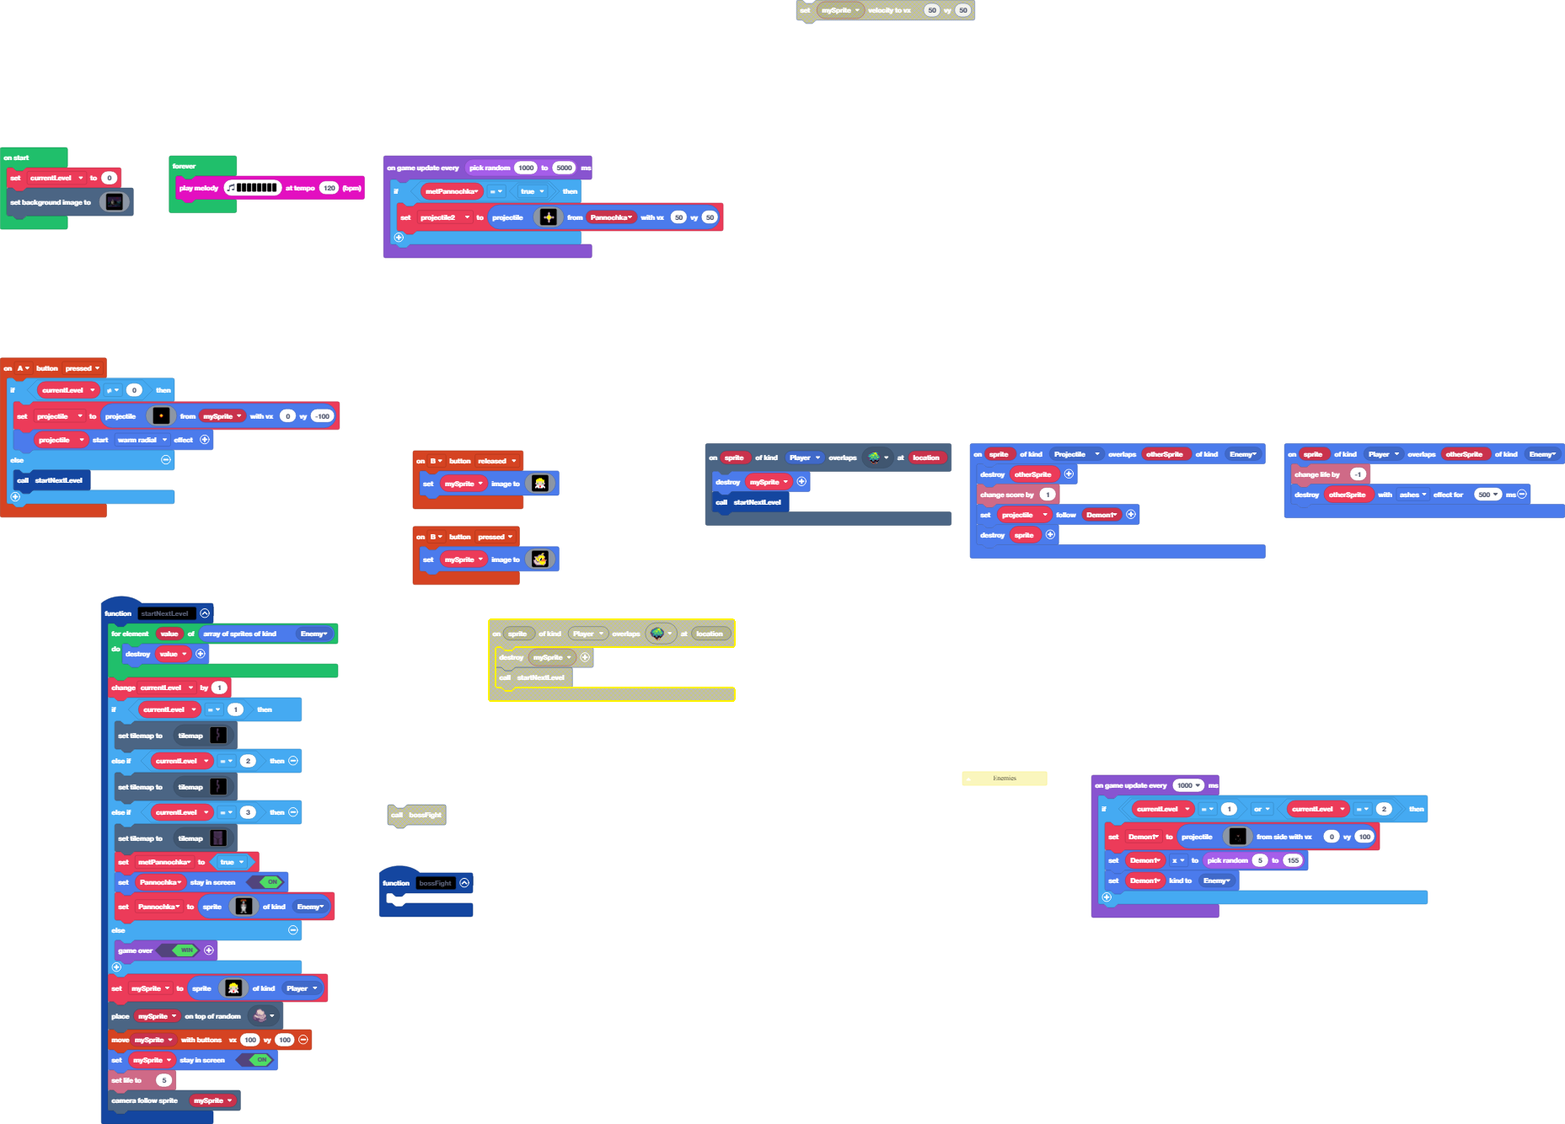
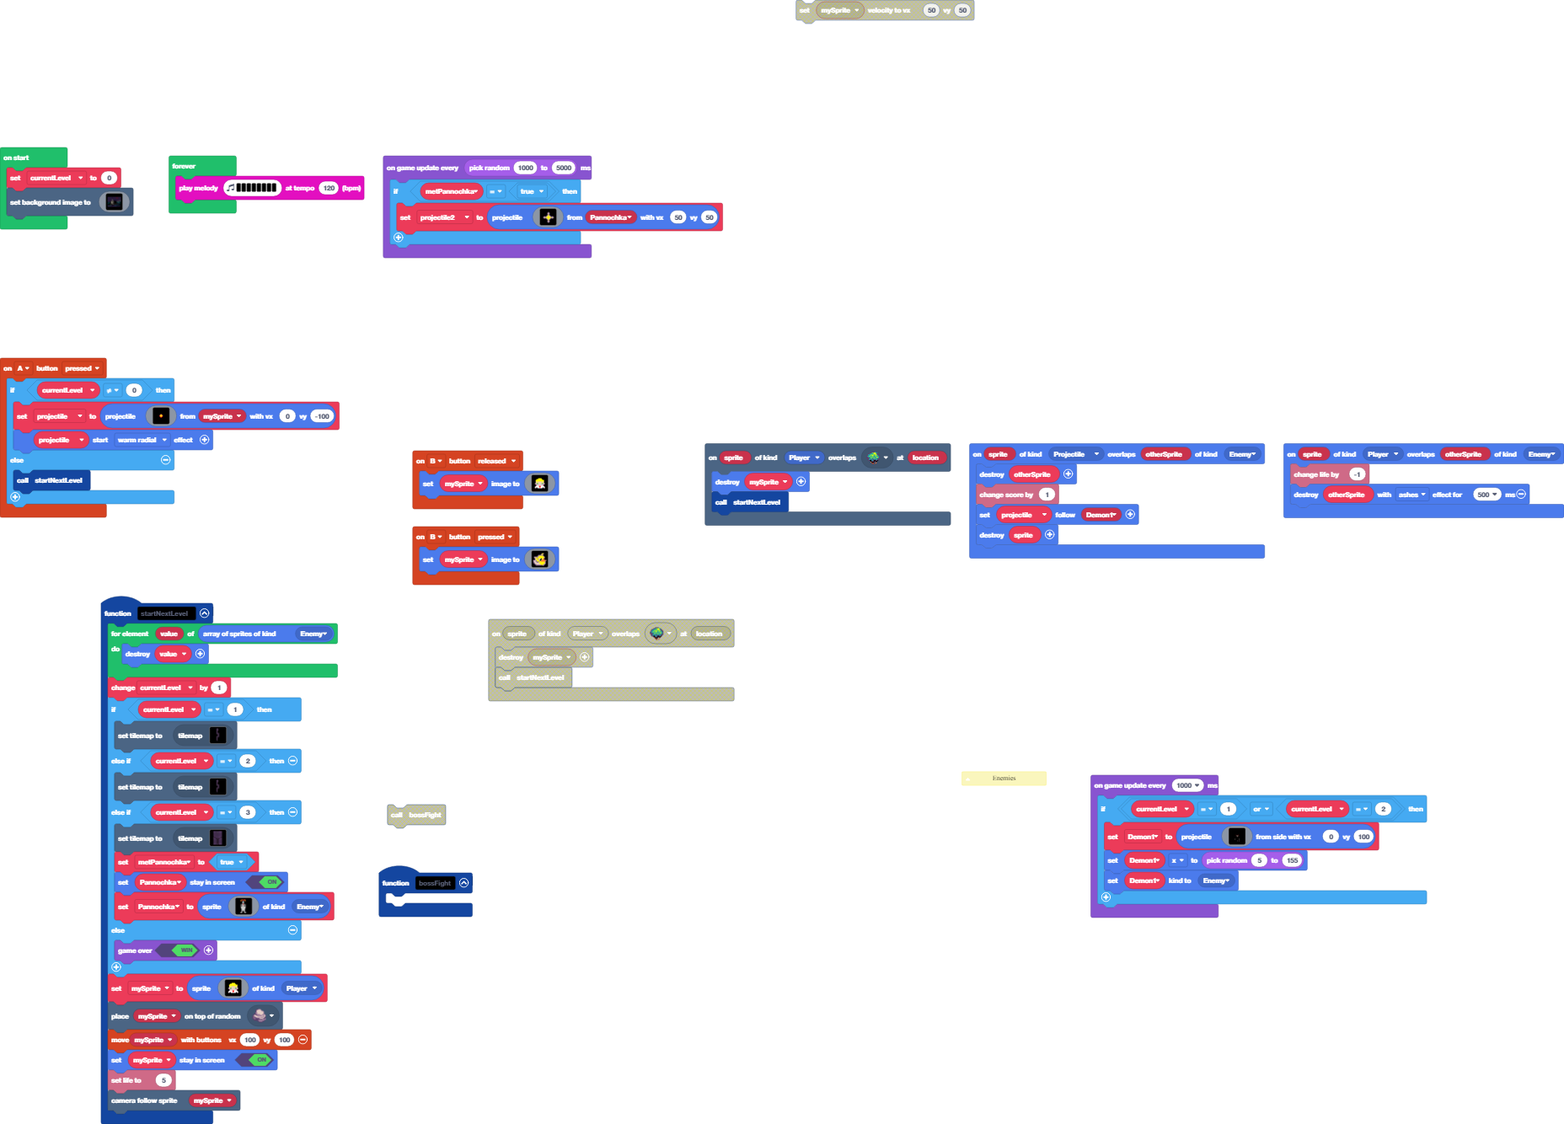
Зробила тоннель

Changed region(s): [[0.1562, 0.1537, 0.2188, 0.1844], [0.3125, 0.584, 0.3438, 0.6147]]

diff --git a/images.g.ts b/images.g.ts
@@ -22,6 +22,129 @@ namespace myImages {
 . . . . . f f f f f f . . . . . 
 . . . . . f f . . f f . . . . . 
 `;
+            case "image2":
+            case "ифдм":return img`
+ffffffffffffffffffffffffffffffffffffffffffffffffffffffffffffffffffffffffffffffffffffffffffffffffffffffffffffffffffffffffffffffffffffffffffffffffffffffffffffffff
+ffffffffffffffffffffffffffffffffffffffffffffffffffffffffffffffffffffffffffffffffffffffffffffffffffffffffffffffffffffffffffffffffffffffffffffffffffffffffffffffff
+ffffffffffffffffffffffffffffffffffffffffffffffffffffffffffffffffffffffffffffffffffffffffffffffffffffffffffffffffffffffffffffffffffffffffffffffffffffffffffffffff
+ffffffffffffffffffffffffffffffffffffffffffffffffffffffffffffffffffffffffffffffffffffffffffffffffffffffffffffffffffffffffffffffffffffffffffffffffffffffffffffffff
+ffffffffffffffffffffffffffffffffffffffffffffffffffffffffffffffffffffffffffffffffffffffffffffffffffffffffffffffffffffffffffffffffffffffffffffffffffffffffffffffff
+ffffffffffffffffffffffffffffffffffffffffffffffffffffffffffffffffffffffffffffffffffffffffffffffffffffffffffffffffffffffffffffffffffffffffffffffffffffffffffffffff
+ffffffffffffffffffffffffffffffffffffffffffffffffffffffffffffffffffffffffffffffffffffffffffffffffffffffffffffffffffffffffffffffffffffffffffffffffffffffffffffffff
+ffffffffffffffffffffffffffffffffffffffffffffffffffffffffffffffffffffffffffffffffffffffffffffffffffffffffffffffffffffffffffffffffffffffffffffffffffffffffffffffff
+ffffffffffffffffffffffffffffffffffffffffffffffffffffffffffffffffffffffffffffffffffffffffffffffffffffffffffffffffffffffffffffffffffffffffffffffffffffffffffffffff
+ffffffffffffffffffffffffffffffffffffffffffffffffffffffffffffffffffffffffffffffffffffffffffffffffffffffffffffffffffffffffffffffffffffffffffffffffffffffffffffffff
+ffffffffffffffffffffffffffffffffffffffffffffffffffffffffffffffffffffffffffffffffffffffffffffffffffffffffffffffffffffffffffffffffffffffffffffffffffffffffffffffff
+ffffffffffffffffffffffffffffffffffffffffffffffffffffffffffffffffffffffffffffffffffffffffffffffffffffffffffffffffffffffffffffffffffffffffffffffffffffffffffffffff
+ffffffffffffffffffffffffffffffffffffffffffffffffffffffffffffffffffffffffffffffffffffffffffffffffffffffffffffffffffffffffffffffffffffffffffffffffffffffffffffffff
+ffffffffffffffffffffffffffffffffffffffffffffffffffffffffffffffffffffffffffffffffffffffffffffffffffffffffffffffffffffffffffffffffffffffffffffffffffffffffffffffff
+ffffffffffffffffffffffffffffffffffffffffffffffffffffffffffffffffffffffffffffffffffffffffffffffffffffffffffffffffffffffffffffffffffffffffffffffffffffffffffffffff
+ffffffffffffffffffffffffffffffffffffffffffffffffffffffffffffffffffffffffffffffffffffffffffffffffffffffffffffffffffffffffffffffffffffffffffffffffffffffffffffffff
+ffffffffffffffffffffffffffffffffffffffffffffffffffffffffffffffffffffffffffffffffffffffffffffffffffffffffffffffffffffffffffffffffffffffffffffffffffffffffffffffff
+ffffffffffffffffffffffffffffffffffffffffffffffffffffffffffffffffffffffffffffffffffffffffffffffffffffffffffffffffffffffffffffffffffffffffffffffffffffffffffffffff
+ffffffffffffffffffffffffffffffffffffffffffffffffffffffffffffffffffffffffffffffffffffffffffffffffffffffffffffffffffffffffffffffffffffffffffffffffffffffffffffffff
+ffffffffffffffffffffffffffffffffffffffffffffffffffffffffffffffffffffffffffffffffffffffffffffffffffffffffffffffffffffffffffffffffffffffffffffffffffffffffffffffff
+ffffffffffffffffffffffffffffffffffffffffffffffffffffffffffffffffffffffffffffffffffffffffffffffffffffffffffffffffffffffffffffffffffffffffffffffffffffffffffffffff
+ffffffffffffffffffffffffffffffffffffffffffffffffffffffffffffffffffffffffffffffffffffffffffffffffffffffffffffffffffffffffffffffffffffffffffffffffffffffffffffffff
+ffffffffffffffffffffffffffffffffffffffffffffffffffffffffffffffffffffffffffffffffffffffffffffffffffffffffffffffffffffffffffffffffffffffffffffffffffffffffffffffff
+ffffffffffffffffffffffffffffffffffffffffffffffffffffffffffffffffffffffffffffffffffffffffffffffffffffffffffffffffffffffffffffffffffffffffffffffffffffffffffffffff
+ffffffffffffffffffffffffffffffffffffffffffffffffffffffffffffffffffffffffffffffffffffffffffffffffffffffffffffffffffffffffffffffffffffffffffffffffffffffffffffffff
+ffffffffffffffffffffffffffffffffffffffffffffffffffffffffffffffffffffffffffffffffffffffffffffffffffffffffffffffffffffffffffffffffffffffffffffffffffffffffffffffff
+ffffffffffffffffffffffffffffffffffffffffffffffffffffffffffffffffffffffffffffffffffffffffffffffffffffffffffffffffffffffffffffffffffffffffffffffffffffffffffffffff
+ffffffffffffffffffffffffffffffffffffffffffffffffffffffffffffffffffffffffffffffffffffffffffffffffffffffffffffffffffffffffffffffffffffffffffffffffffffffffffffffff
+ffffffffffffffffffffffffffffffffffffffffffffffffffffffffffffffffffffffffffffffffffffffffffffffffffffffffffffffffffffffffffffffffffffffffffffffffffffffffffffffff
+ffffffffffffffffffffffffffffffffffffffffffffffffffffffffffffffffffffffffffffffffffffffffffffffffffffffffffffffffffffffffffffffffffffffffffffffffffffffffffffffff
+ffffffffffffffffffffffffffffffffffffffffffffffffffffffffffffffffffffffffffffffffffffffffffffffffffffffffffffffffffffffffffffffffffffffffffffffffffffffffffffffff
+ffffffffffffffffffffffffffffffffffffffffffffffffffffffffffffffffffffffffffffffffffffffffffffffffffffffffffffffffffffffffffffffffffffffffffffffffffffffffffffffff
+ffffffffffffffffffffffffffffffffffffffffffffffffffffffffffffffffffffffffffffffffffffffffffffffffffffffffffffffffffffffffffffffffffffffffffffffffffffffffffffffff
+ffffffffffffffffffffffffffffffffffffffffffffffffffffffffffffffffffffffffffffffffffffffffffffffffffffffffffffffffffffffffffffffffffffffffffffffffffffffffffffffff
+ffffffffffffffffffffffffffffffffffffffffffffffffffffffffffffffffffffffffffffffffffffffffffffffffffffffffffffffffffffffffffffffffffffffffffffffffffffffffffffffff
+ffffffffffffffffffffffffffffffffffffffffffffffffffffffffffffffffffffffffffffffffffffffffffffffffffffffffffffffffffffffffffffffffffffffffffffffffffffffffffffffff
+ffffffffffffffffffffffffffffffffffffffffffffffffffffffffffffffffffffffffffffffffffffffffffffffffffffffffffffffffffffffffffffffffffffffffffffffffffffffffffffffff
+ffffffffffffffffffffffffffffffffffffffffffffffffffffffffffffffffffffffffffffffffffffffffffffffffffffffffffffffffffffffffffffffffffffffffffffffffffffffffffffffff
+ffffffffffffffffffffffffffffffffffffffffffffffffffffffffffffffffffffffffffffffffffffffffffffffffffffffffffffffffffffffffffffffffffffffffffffffffffffffffffffffff
+ffffffffffffffffffffffffffffffffffffffffffffffffffffffffffffffffffffffffffffffffffffffffffffffffffffffffffffffffffffffffffffffffffffffffffffffffffffffffffffffff
+ffffffffffffffffffffffffffffffffffffffffffffffffffffffffffffffffffffffffffffffffffffffffffffffffffffffffffffffffffffffffffffffffffffffffffffffffffffffffffffffff
+ffffffffffffffffffffffffffffffffffffffffffffffffffffffffffffffffffffffffffffffffffffffffffffffffffffffffffffffffffffffffffffffffffffffffffffffffffffffffffffffff
+ffffffffffffffffffffffffffffffffffffffffffffffffffffffffffffffffffffffffffffffffffffffffffffffffffffffffffffffffffffffffffffffffffffffffffffffffffffffffffffffff
+ffffffffffffffffffffffffffffffffffffffffffffffffffffffffffffffffffffffffffffffffffffffffffffffffffffffffffffffffffffffffffffffffffffffffffffffffffffffffffffffff
+ffffffffffffffffffffffffffffffffffffffffffffffffffffffffffffffffffffffffffffffffffffffffffffffffffffffffffffffffffffffffffffffffffffffffffffffffffffffffffffffff
+ffffffffffffffffffffffffffffffffffffffffffffffffffffffffffffffffffffffffffffffffffffffffffffffffffffffffffffffffffffffffffffffffffffffffffffffffffffffffffffffff
+ffffffffffffffffffffffffffffffffffffffffffffffffffffffffffffffffffffffffffffffffffffffffffffffffffffffffffffffffffffffffffffffffffffffffffffffffffffffffffffffff
+ffffffffffffffffffffffffffffffffffffffffffffffffffffffffffffffffffffffffffffffffffffffffffffffffffffffffffffffffffffffffffffffffffffffffffffffffffffffffffffffff
+ffffffffffffffffffffffffffffffffffffffffffffffffffffffffffffffffffffffffffffffffffffffffffffffffffffffffffffffffffffffffffffffffffffffffffffffffffffffffffffffff
+ffffffffffffffffffffffffffffffffffffffffffffffffffffffffffffffffffffffffffffffffffffffffffffffffffffffffffffffffffffffffffffffffffffffffffffffffffffffffffffffff
+ffffffffffffffffffffffffffffffffffffffffffffffffffffffffffffffffffffffffffffffffffffffffffffffffffffffffffffffffffffffffffffffffffffffffffffffffffffffffffffffff
+ffffffffffffffffffffffffffffffffffffffffffffffffffffffffffffffffffffffffffffffffffffffffffffffffffffffffffffffffffffffffffffffffffffffffffffffffffffffffffffffff
+ffffffffffffffffffffffffffffffffffffffffffffffffffffffffffffffffffffffffffffffffffffffffffffffffffffffffffffffffffffffffffffffffffffffffffffffffffffffffffffffff
+ffffffffffffffffffffffffffffffffffffffffffffffffffffffffffffffffffffffffffffffffffffffffffffffffffffffffffffffffffffffffffffffffffffffffffffffffffffffffffffffff
+ffffffffffffffffffffffffffffffffffffffffffffffffffffffffffffffffffffffffffffffffffffffffffffffffffffffffffffffffffffffffffffffffffffffffffffffffffffffffffffffff
+ffffffffffffffffffffffffffffffffffffffffffffffffffffffffffffffffffffffffffffffffffffffffffffffffffffffffffffffffffffffffffffffffffffffffffffffffffffffffffffffff
+ffffffffffffffffffffffffffffffffffffffffffffffffffffffffffffffffffffffffffffffffffffffffffffffffffffffffffffffffffffffffffffffffffffffffffffffffffffffffffffffff
+ffffffffffffffffffffffffffffffffffffffffffffffffffffffffffffffffffffffffffffffffffffffffffffffffffffffffffffffffffffffffffffffffffffffffffffffffffffffffffffffff
+ffffffffffffffffffffffffffffffffffffffffffffffffffffffffffffffffffffffffffffffffffffffffffffffffffffffffffffffffffffffffffffffffffffffffffffffffffffffffffffffff
+ffffffffffffffffffffffffffffffffffffffffffffffffffffffffffffffffffffffffffffffffffffffffffffffffffffffffffffffffffffffffffffffffffffffffffffffffffffffffffffffff
+ffffffffffffffffffffffffffffffffffffffffffffffffffffffffffffffffffffffffffffffffffffffffffffffffffffffffffffffffffffffffffffffffffffffffffffffffffffffffffffffff
+ffffffffffffffffffffffffffffffffffffffffffffffffffffffffffffffffffffffffffffffffffffffffffffffffffffffffffffffffffffffffffffffffffffffffffffffffffffffffffffffff
+ffffffffffffffffffffffffffffffffffffffffffffffffffffffffffffffffffffffffffffffffffffffffffffffffffffffffffffffffffffffffffffffffffffffffffffffffffffffffffffffff
+ffffffffffffffffffffffffffffffffffffffffffffffffffffffffffffffffffffffffffffffffffffffffffffffffffffffffffffffffffffffffffffffffffffffffffffffffffffffffffffffff
+ffffffffffffffffffffffffffffffffffffffffffffffffffffffffffffffffffffffffffffffffffffffffffffffffffffffffffffffffffffffffffffffffffffffffffffffffffffffffffffffff
+ffffffffffffffffffffffffffffffffffffffffffffffffffffffffffffffffffffffffffffffffffffffffffffffffffffffffffffffffffffffffffffffffffffffffffffffffffffffffffffffff
+ffffffffffffffffffffffffffffffffffffffffffffffffffffffffffffffffffffffffffffffffffffffffffffffffffffffffffffffffffffffffffffffffffffffffffffffffffffffffffffffff
+ffffffffffffffffffffffffffffffffffffffffffffffffffffffffffffffffffffffffffffffffffffffffffffffffffffffffffffffffffffffffffffffffffffffffffffffffffffffffffffffff
+ffffffffffffffffffffffffffffffffffffffffffffffffffffffffffffffffffffffffffffffffffffffffffffffffffffffffffffffffffffffffffffffffffffffffffffffffffffffffffffffff
+ffffffffffffffffffffffffffffffffffffffffffffffffffffffffffffffffffffffffffffffffffffffffffffffffffffffffffffffffffffffffffffffffffffffffffffffffffffffffffffffff
+ffffffffffffffffffffffffffffffffffffffffffffffffffffffffffffffffffffffffffffffffffffffffffffffffffffffffffffffffffffffffffffffffffffffffffffffffffffffffffffffff
+ffffffffffffffffffffffffffffffffffffffffffffffffffffffffffffffffffffffffffffffffffffffffffffffffffffffffffffffffffffffffffffffffffffffffffffffffffffffffffffffff
+ffffffffffffffffffffffffffffffffffffffffffffffffffffffffffffffffffffffffffffffffffffffffffffffffffffffffffffffffffffffffffffffffffffffffffffffffffffffffffffffff
+ffffffffffffffffffffffffffffffffffffffffffffffffffffffffffffffffffffffffffffffffffffffffffffffffffffffffffffffffffffffffffffffffffffffffffffffffffffffffffffffff
+ffffffffffffffffffffffffffffffffffffffffffffffffffffffffffffffffffffffffffffffffffffffffffffffffffffffffffffffffffffffffffffffffffffffffffffffffffffffffffffffff
+ffffffffffffffffffffffffffffffffffffffffffffffffffffffffffffffffffffffffffffffffffffffffffffffffffffffffffffffffffffffffffffffffffffffffffffffffffffffffffffffff
+ffffffffffffffffffffffffffffffffffffffffffffffffffffffffffffffffffffffffffffffffffffffffffffffffffffffffffffffffffffffffffffffffffffffffffffffffffffffffffffffff
+ffffffffffffffffffffffffffffffffffffffffffffffffffffffffffffffffffffffffffffffffffffffffffffffffffffffffffffffffffffffffffffffffffffffffffffffffffffffffffffffff
+ffffffffffffffffffffffffffffffffffffffffffffffffffffffffffffffffffffffffffffffffffffffffffffffffffffffffffffffffffffffffffffffffffffffffffffffffffffffffffffffff
+ffffffffffffffffffffffffffffffffffffffffffffffffffffffffffffffffffffffffffffffffffffffffffffffffffffffffffffffffffffffffffffffffffffffffffffffffffffffffffffffff
+ffffffffffffffffffffffffffffffffffffffffffffffffffffffffffffffffffffffffffffffffffffffffffffffffffffffffffffffffffffffffffffffffffffffffffffffffffffffffffffffff
+ffffffffffffffffffffffffffffffffffffffffffffffffffffffffffffffffffffffffffffffffffffffffffffffffffffffffffffffffffffffffffffffffffffffffffffffffffffffffffffffff
+ffffffffffffffffffffffffffffffffffffffffffffffffffffffffffffffffffffffffffffffffffffffffffffffffffffffffffffffffffffffffffffffffffffffffffffffffffffffffffffffff
+ffffffffffffffffffffffffffffffffffffffffffffffffffffffffffffffffffffffffffffffffffffffffffffffffffffffffffffffffffffffffffffffffffffffffffffffffffffffffffffffff
+ffffffffffffffffffffffffffffffffffffffffffffffffffffffffffffffffffffffffffffffffffffffffffffffffffffffffffffffffffffffffffffffffffffffffffffffffffffffffffffffff
+ffffffffffffffffffffffffffffffffffffffffffffffffffffffffffffffffffffffffffffffffffffffffffffffffffffffffffffffffffffffffffffffffffffffffffffffffffffffffffffffff
+ffffffffffffffffffffffffffffffffffffffffffffffffffffffffffffffffffffffffffffffffffffffffffffffffffffffffffffffffffffffffffffffffffffffffffffffffffffffffffffffff
+ffffffffffffffffffffffffffffffffffffffffffffffffffffffffffffffffffffffffffffffffffffffffffffffffffffffffffffffffffffffffffffffffffffffffffffffffffffffffffffffff
+ffffffffffffffffffffffffffffffffffffffffffffffffffffffffffffffffffffffffffffffffffffffffffffffffffffffffffffffffffffffffffffffffffffffffffffffffffffffffffffffff
+ffffffffffffffffffffffffffffffffffffffffffffffffffffffffffffffffffffffffffffffffffffffffffffffffffffffffffffffffffffffffffffffffffffffffffffffffffffffffffffffff
+ffffffffffffffffffffffffffffffffffffffffffffffffffffffffffffffffffffffffffffffffffffffffffffffffffffffffffffffffffffffffffffffffffffffffffffffffffffffffffffffff
+ffffffffffffffffffffffffffffffffffffffffffffffffffffffffffffffffffffffffffffffffffffffffffffffffffffffffffffffffffffffffffffffffffffffffffffffffffffffffffffffff
+ffffffffffffffffffffffffffffffffffffffffffffffffffffffffffffffffffffffffffffffffffffffffffffffffffffffffffffffffffffffffffffffffffffffffffffffffffffffffffffffff
+ffffffffffffffffffffffffffffffffffffffffffffffffffffffffffffffffffffffffffffffffffffffffffffffffffffffffffffffffffffffffffffffffffffffffffffffffffffffffffffffff
+ffffffffffffffffffffffffffffffffffffffffffffffffffffffffffffffffffffffffffffffffffffffffffffffffffffffffffffffffffffffffffffffffffffffffffffffffffffffffffffffff
+ffffffffffffffffffffffffffffffffffffffffffffffffffffffffffffffffffffffffffffffffffffffffffffffffffffffffffffffffffffffffffffffffffffffffffffffffffffffffffffffff
+ffffffffffffffffffffffffffffffffffffffffffffffffffffffffffffffffffffffffffffffffffffffffffffffffffffffffffffffffffffffffffffffffffffffffffffffffffffffffffffffff
+ffffffffffffffffffffffffffffffffffffffffffffffffffffffffffffffffffffffffffffffffffffffffffffffffffffffffffffffffffffffffffffffffffffffffffffffffffffffffffffffff
+ffffffffffffffffffffffffffffffffffffffffffffffffffffffffffffffffffffffffffffffffffffffffffffffffffffffffffffffffffffffffffffffffffffffffffffffffffffffffffffffff
+ffffffffffffffffffffffffffffffffffffffffffffffffffffffffffffffffffffffffffffffffffffffffffffffffffffffffffffffffffffffffffffffffffffffffffffffffffffffffffffffff
+ffffffffffffffffffffffffffffffffffffffffffffffffffffffffffffffffffffffffffffffffffffffffffffffffffffffffffffffffffffffffffffffffffffffffffffffffffffffffffffffff
+ffffffffffffffffffffffffffffffffffffffffffffffffffffffffffffffffffffffffffffffffffffffffffffffffffffffffffffffffffffffffffffffffffffffffffffffffffffffffffffffff
+ffffffffffffffffffffffffffffffffffffffffffffffffffffffffffffffffffffffffffffffffffffffffffffffffffffffffffffffffffffffffffffffffffffffffffffffffffffffffffffffff
+ffffffffffffffffffffffffffffffffffffffffffffffffffffffffffffffffffffffffffffffffffffffffffffffffffffffffffffffffffffffffffffffffffffffffffffffffffffffffffffffff
+ffffffffffffffffffffffffffffffffffffffffffffffffffffffffffffffffffffffffffffffffffffffffffffffffffffffffffffffffffffffffffffffffffffffffffffffffffffffffffffffff
+ffffffffffffffffffffffffffffffffffffffffffffffffffffffffffffffffffffffffffffffffffffffffffffffffffffffffffffffffffffffffffffffffffffffffffffffffffffffffffffffff
+ffffffffffffffffffffffffffffffffffffffffffffffffffffffffffffffffffffffffffffffffffffffffffffffffffffffffffffffffffffffffffffffffffffffffffffffffffffffffffffffff
+ffffffffffffffffffffffffffffffffffffffffffffffffffffffffffffffffffffffffffffffffffffffffffffffffffffffffffffffffffffffffffffffffffffffffffffffffffffffffffffffff
+ffffffffffffffffffffffffffffffffffffffffffffffffffffffffffffffffffffffffffffffffffffffffffffffffffffffffffffffffffffffffffffffffffffffffffffffffffffffffffffffff
+ffffffffffffffffffffffffffffffffffffffffffffffffffffffffffffffffffffffffffffffffffffffffffffffffffffffffffffffffffffffffffffffffffffffffffffffffffffffffffffffff
+ffffffffffffffffffffffffffffffffffffffffffffffffffffffffffffffffffffffffffffffffffffffffffffffffffffffffffffffffffffffffffffffffffffffffffffffffffffffffffffffff
+ffffffffffffffffffffffffffffffffffffffffffffffffffffffffffffffffffffffffffffffffffffffffffffffffffffffffffffffffffffffffffffffffffffffffffffffffffffffffffffffff
+ffffffffffffffffffffffffffffffffffffffffffffffffffffffffffffffffffffffffffffffffffffffffffffffffffffffffffffffffffffffffffffffffffffffffffffffffffffffffffffffff
+ffffffffffffffffffffffffffffffffffffffffffffffffffffffffffffffffffffffffffffffffffffffffffffffffffffffffffffffffffffffffffffffffffffffffffffffffffffffffffffffff
+ffffffffffffffffffffffffffffffffffffffffffffffffffffffffffffffffffffffffffffffffffffffffffffffffffffffffffffffffffffffffffffffffffffffffffffffffffffffffffffffff
+ffffffffffffffffffffffffffffffffffffffffffffffffffffffffffffffffffffffffffffffffffffffffffffffffffffffffffffffffffffffffffffffffffffffffffffffffffffffffffffffff
+ffffffffffffffffffffffffffffffffffffffffffffffffffffffffffffffffffffffffffffffffffffffffffffffffffffffffffffffffffffffffffffffffffffffffffffffffffffffffffffffff
+ffffffffffffffffffffffffffffffffffffffffffffffffffffffffffffffffffffffffffffffffffffffffffffffffffffffffffffffffffffffffffffffffffffffffffffffffffffffffffffffff
+ffffffffffffffffffffffffffffffffffffffffffffffffffffffffffffffffffffffffffffffffffffffffffffffffffffffffffffffffffffffffffffffffffffffffffffffffffffffffffffffff
+ffffffffffffffffffffffffffffffffffffffffffffffffffffffffffffffffffffffffffffffffffffffffffffffffffffffffffffffffffffffffffffffffffffffffffffffffffffffffffffffff
+`;
             case "+(x@e:$@JRr*MuuV=@":
             case "Chort":return img`
 ........................

diff --git a/tilemap.g.ts b/tilemap.g.ts
@@ -6,6 +6,8 @@ namespace myTiles {
     export const tile2 = image.ofBuffer(hex``);
     //% fixedInstance jres blockIdentity=images._tile
     export const tile1 = image.ofBuffer(hex``);
+    //% fixedInstance jres blockIdentity=images._tile
+    export const tile3 = image.ofBuffer(hex``);
 
     helpers._registerFactory("tilemap", function(name: string) {
         switch(helpers.stringTrim(name)) {
@@ -42,25 +44,6 @@ namespace myTiles {
 222222222.222222222
 2222222222222222222
 `, [myTiles.transparency16,sprites.castle.rock0,sprites.dungeon.darkGroundCenter,sprites.skillmap.islandTile3,sprites.builtin.forestTiles11,sprites.builtin.forestTiles9], TileScale.Sixteen);
-            case "level2":
-            case "level2":return tiles.createTilemap(hex`1000100000000000000000000000000000000000000000000000000000000000000000000000000000000000000000000000000000000000000000000000000000000000000000000000000000000000000000000000000000000000000000000000000000000000000000000000000000000000000000000000000000000000000000000000000000000000000000000000000000000000000000000000000000000000000000000000000000000000000000000000000000000000000000000000000000000000000000000000000000000000000000000000000000000000000000000000000000000000000000000000000000000000000000000000000000000000`, img`
-. . . . . . . . . . . . . . . . 
-. . . . . . . . . . . . . . . . 
-. . . . . . . . . . . . . . . . 
-. . . . . . . . . . . . . . . . 
-. . . . . . . . . . . . . . . . 
-. . . . . . . . . . . . . . . . 
-. . . . . . . . . . . . . . . . 
-. . . . . . . . . . . . . . . . 
-. . . . . . . . . . . . . . . . 
-. . . . . . . . . . . . . . . . 
-. . . . . . . . . . . . . . . . 
-. . . . . . . . . . . . . . . . 
-. . . . . . . . . . . . . . . . 
-. . . . . . . . . . . . . . . . 
-. . . . . . . . . . . . . . . . 
-. . . . . . . . . . . . . . . . 
-`, [myTiles.transparency16], TileScale.Sixteen);
             case "level4":
             case "level4":return tiles.createTilemap(hex`1000100000000000000000000000000000000000000000000000000000000000000000000000000000000000000000000000000000000000000000000000000000000000000000000000000000000000000000000000000000000000000000000000000000000000000000000000000000000000000000000000000000000000000000000000000000000000000000000000000000000000000000000000000000000000000000000000000000000000000000000000000000000000000000000000000000000000000000000000000000000000000000000000000000000000000000000000000000000000000000000000000000000000000000000000000000000000`, img`
 . . . . . . . . . . . . . . . . 
@@ -266,6 +249,59 @@ namespace myTiles {
 ..........
 ..........
 `, [myTiles.transparency16,sprites.dungeon.greenOuterSouth0,sprites.castle.rock0,sprites.castle.saplingOak,myTiles.tile1], TileScale.Sixteen);
+            case "level2":
[1 lines of base64/hex data omitted]
+22.....222
+22.....222
+22.....222
+22.....222
+22.....222
+22.....222
+22.....222
+22.....222
+22.....222
+22.....222
+22.....222
+22.....222
+22.....222
+22.....222
+22.....222
+..........
+..........
+..........
+...2222...
+...2222...
+...2222...
+...2222...
+..........
+..........
+..........
+22.....222
+22.....222
+22.....222
+22.....222
+22.....222
+22.....222
+22.....222
+22.....222
+22.....222
+22.....222
+22.....222
+22.....222
+22.....222
+22.....222
+22.....222
+22.....222
+22.....222
+22.....222
+22.....222
+22.....222
+22.....222
+22.....222
+22.....222
+22.....222
+22.....222
+`, [myTiles.transparency16,myTiles.tile1,myTiles.tile3], TileScale.Sixteen);
         }
         return null;
     })
@@ -277,6 +313,8 @@ namespace myTiles {
             case "tile2":return tile2;
             case "myTile":
             case "tile1":return tile1;
+            case "myTile1":
+            case "tile3":return tile3;
         }
         return null;
     })
